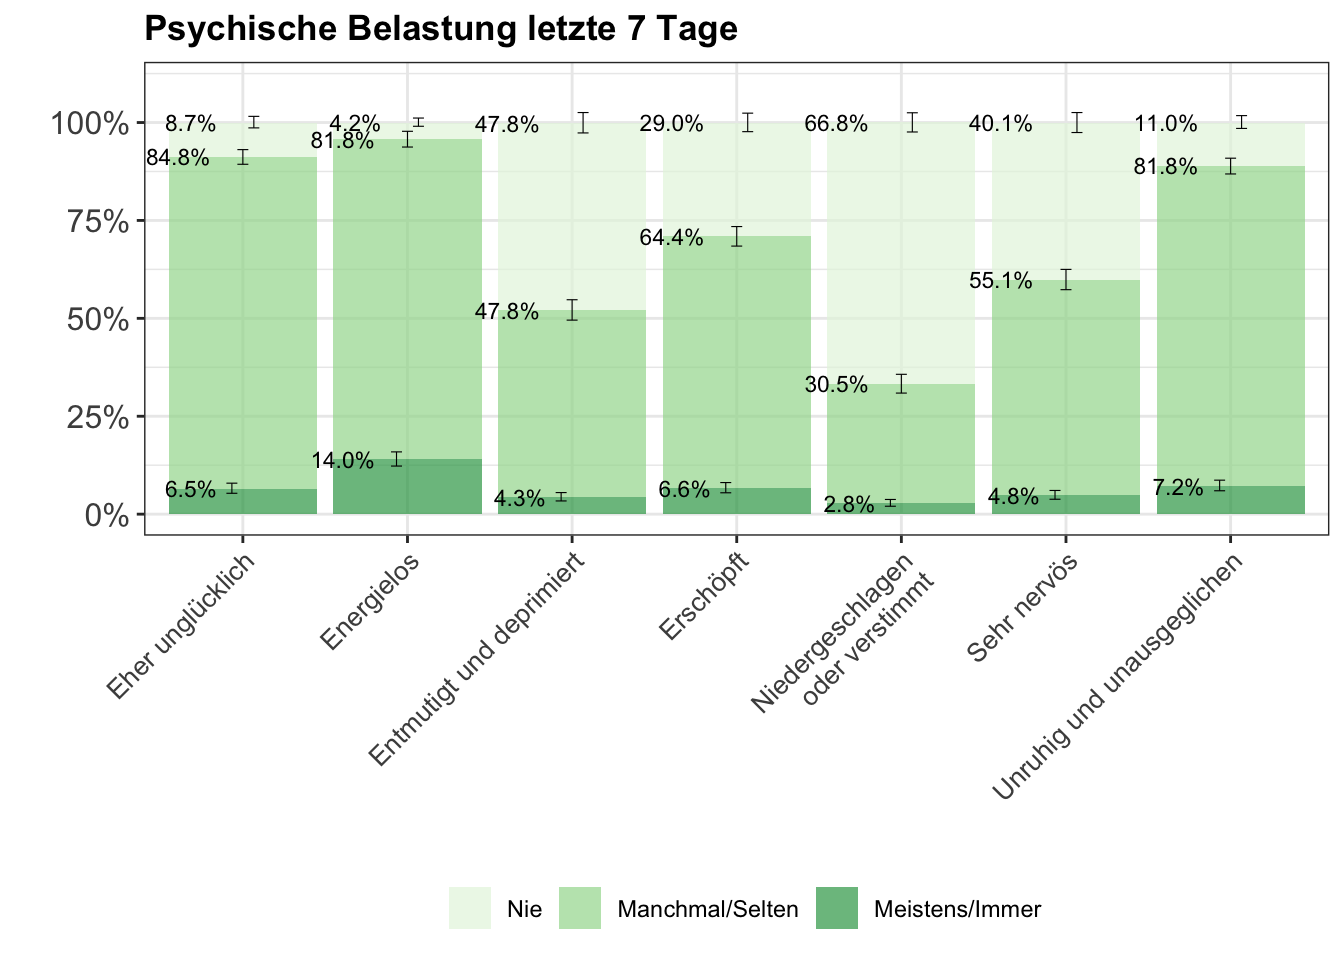
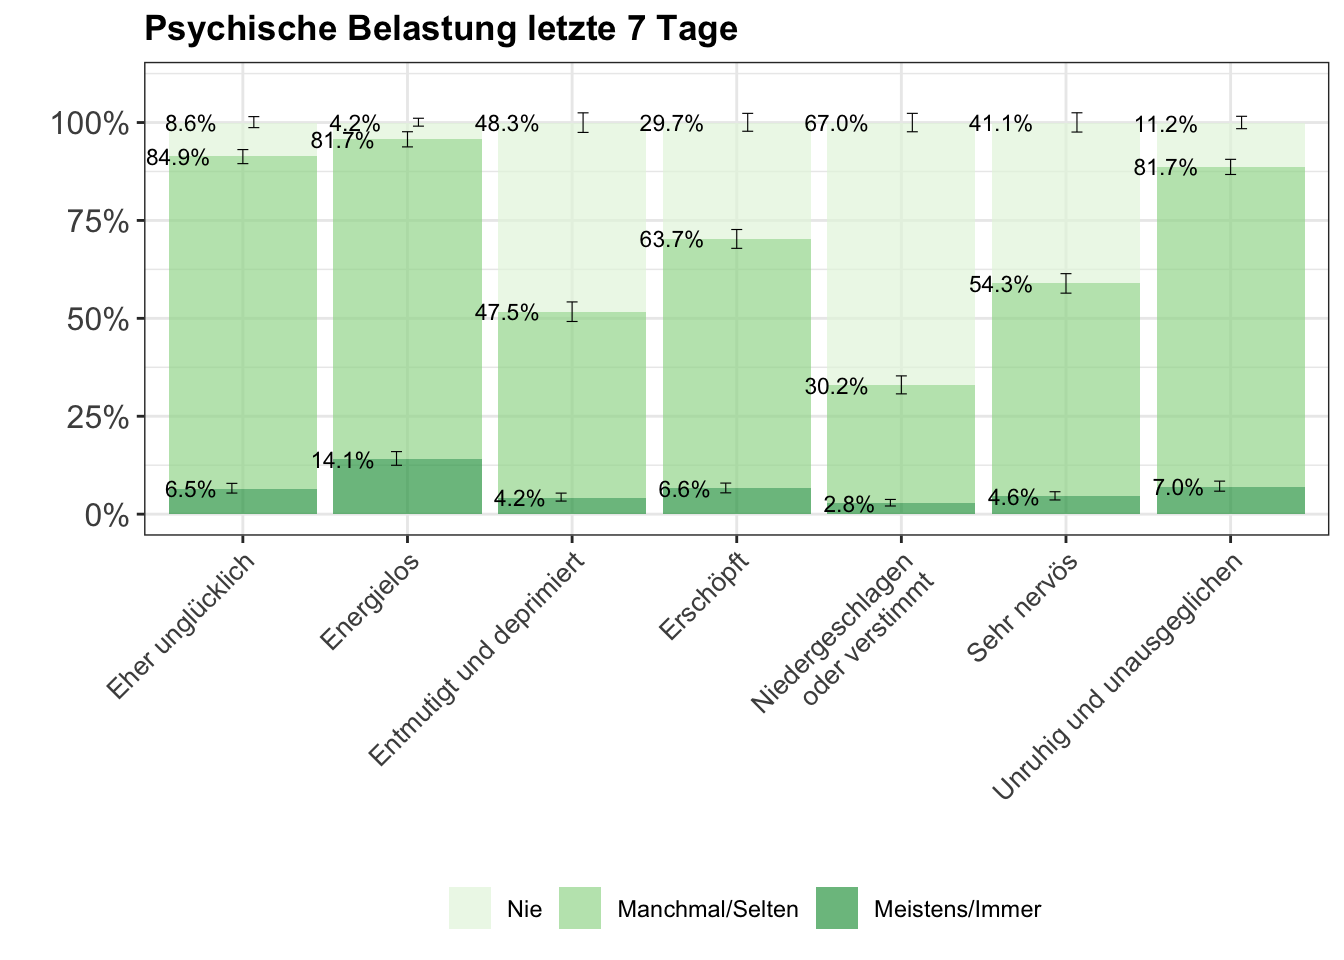
Report

diff --git a/public/post/wave2/index.html b/public/post/wave2/index.html
@@ -4,15 +4,15 @@
 	<meta charset="UTF-8">
 	<meta name="viewport" content="width=device-width, initial-scale=1">
 	<meta http-equiv="X-UA-Compatible" content="IE=edge">
-	<title>Zwischenresultate Umfragewelle 2 - COVID-19 Social Monitor</title>
+	<title>Resultate Umfragewelle 2 - COVID-19 Social Monitor</title>
 	<script>(function(d,e){d[e]=d[e].replace("no-js","js");})(document.documentElement,"className");</script>
 	<meta name="description" content="">
-	<meta property="og:title" content="Zwischenresultate Umfragewelle 2" />
-<meta property="og:description" content="Zwischenresultate der zweiten Welle mit Erhebungszeitraum 06. April 2020 bis 14. April 2020" />
+	<meta property="og:title" content="Resultate Umfragewelle 2" />
+<meta property="og:description" content="Resultate der zweiten Welle mit Erhebungszeitraum 06. April 2020 bis 14. April 2020" />
 <meta property="og:type" content="article" />
 <meta property="og:url" content="/post/wave2/" />
-<meta property="article:published_time" content="2020-04-11T00:00:00+00:00" />
-<meta property="article:modified_time" content="2020-04-11T00:00:00+00:00" />
+<meta property="article:published_time" content="2020-04-13T00:00:00+00:00" />
+<meta property="article:modified_time" content="2020-04-13T00:00:00+00:00" />
 
 	
 	<link rel="dns-prefetch" href="//fonts.googleapis.com">
@@ -57,17 +57,17 @@
 <main class="main" role="main">
 	<article class="post">
 		<header class="post__header">
-			<h1 class="post__title">Zwischenresultate Umfragewelle 2</h1>
+			<h1 class="post__title">Resultate Umfragewelle 2</h1>
 			<div class="post__meta meta">
 <div class="meta__item-datetime meta__item">
-	<svg class="meta__icon icon icon-time" width="16" height="14" viewBox="0 0 30 28"><path d="M15 0C7 0 1 6 1 14s6 14 14 14 14-6 14-14S23 0 15 0zm0 25C9 25 4 20 4 14S9 3 15 3s11 5 11 11-5 11-11 11zm1-18h-2v8.4l6.8 4.4L22 18l-6-3.8V7z"/></svg><time class="meta__text" datetime="2020-04-11T00:00:00Z">April 11, 2020</time></div></div>
+	<svg class="meta__icon icon icon-time" width="16" height="14" viewBox="0 0 30 28"><path d="M15 0C7 0 1 6 1 14s6 14 14 14 14-6 14-14S23 0 15 0zm0 25C9 25 4 20 4 14S9 3 15 3s11 5 11 11-5 11-11 11zm1-18h-2v8.4l6.8 4.4L22 18l-6-3.8V7z"/></svg><time class="meta__text" datetime="2020-04-13T00:00:00Z">April 13, 2020</time></div></div>
 		</header><div class="content post__content clearfix">
 			
 
 
 <div id="umfragepopulation" class="section level1">
 <h1>Umfragepopulation</h1>
-<p>Die zweite Umfragewelle startete am 06. April 2020. Per 12.04.2020 wurden Antworten von 1416 Personen ausgewertet, welche in der ersten Umfragewelle (N=2024) teilgenommen haben (Rücklaufquote 70%). Insgesamt gaben 688 (48.6%) Frauen* und 728 (51.4%) Männer* eine Antwort. Das durchschnittliche Alter der Personen welche an der Umfragewelle teilgenommen haben beträgt 46 Jahre (Jüngste Person: 18 Jahre, Älteste Person 79 Jahre). Davon waren 212 (15%) Personen älter als 65 Jahre. 95 (6.7%) der befragten Personen hatten einen obligatorischen Schulabschluss, 671 (47.4%) einen Sekundarstufeabschluss und 644 (45.5%) einen Abschluss auf Tertiärstufe (6 [0.4%) Personen machten keine Angabe zur Ausbildung]. Es wurden 881 (62.2%) Personen in der Deutschschweiz, 317 (22.4%) in der Romandie (frankophone Schweiz) und 218 (15.4%) in der italienisch-sprechenden Region der Schweiz befragt.</p>
+<p>Die zweite Umfragewelle startete am 06. April 2020. Per 14.04.2020 wurden Antworten von 1536 Personen ausgewertet, welche in der ersten Umfragewelle (N=2024) teilgenommen haben (Rücklaufquote 75.9%). Insgesamt gaben 738 (48%) Frauen* und 798 (52%) Männer* eine Antwort. Das durchschnittliche Alter der Personen welche an der Umfragewelle teilgenommen haben beträgt 46 Jahre (Jüngste Person: 18 Jahre, Älteste Person 79 Jahre). Davon waren 237 (15.4%) Personen älter als 65 Jahre. 103 (6.7%) der befragten Personen hatten einen obligatorischen Schulabschluss, 735 (47.9%) einen Sekundarstufeabschluss und 692 (45.1%) einen Abschluss auf Tertiärstufe (6 [0.4%) Personen machten keine Angabe zur Ausbildung]. Es wurden 990 (64.5%) Personen in der Deutschschweiz, 323 (21%) in der Romandie (frankophone Schweiz) und 223 (14.5%) in der italienisch-sprechenden Region der Schweiz befragt.</p>
 <p> </p>
 </div>
 <div id="allgemeine-gesundheit-und-wohlbefinden" class="section level1">
@@ -153,7 +153,7 @@
 	<h4 class="widget__title">Recent Posts</h4>
 	<div class="widget__content">
 		<ul class="widget__list">
-			<li class="widget__item"><a class="widget__link" href="/post/wave2/">Zwischenresultate Umfragewelle 2</a></li>
+			<li class="widget__item"><a class="widget__link" href="/post/wave2/">Resultate Umfragewelle 2</a></li>
 			<li class="widget__item"><a class="widget__link" href="/post/wave1/">Resultate Umfragewelle 1</a></li>
 			<li class="widget__item"><a class="widget__link" href="/post/start-umfragewelle-2/">Start Umfragewelle 2</a></li>
 			<li class="widget__item"><a class="widget__link" href="/post/start-erste-umfragewelle/">Start erste Umfragewelle</a></li>

diff --git a/content/post/2020-04-11-welle-2.html b/content/post/2020-04-11-welle-2.html
@@ -1,20 +1,20 @@
 ---
 title: Zwischenresultate Umfragewelle 2
 author: André Moser
-date: '2020-04-11'
+date: '2020-04-14'
 slug: wave2
 categories: []
 tags: []
 description: ''
 thumbnail: ''
-summary: "Zwischenresultate der zweiten Welle mit Erhebungszeitraum 06. April 2020 bis 14. April 2020"
+summary: "Resultate der zweiten Welle mit Erhebungszeitraum 06. April 2020 bis 14. April 2020"
 ---
 
 
 
 <div id="umfragepopulation" class="section level1">
 <h1>Umfragepopulation</h1>
-<p>Die zweite Umfragewelle startete am 06. April 2020. Per 12.04.2020 wurden Antworten von 1416 Personen ausgewertet, welche in der ersten Umfragewelle (N=2024) teilgenommen haben (Rücklaufquote 70%). Insgesamt gaben 688 (48.6%) Frauen* und 728 (51.4%) Männer* eine Antwort. Das durchschnittliche Alter der Personen welche an der Umfragewelle teilgenommen haben beträgt 46 Jahre (Jüngste Person: 18 Jahre, Älteste Person 79 Jahre). Davon waren 212 (15%) Personen älter als 65 Jahre. 95 (6.7%) der befragten Personen hatten einen obligatorischen Schulabschluss, 671 (47.4%) einen Sekundarstufeabschluss und 644 (45.5%) einen Abschluss auf Tertiärstufe (6 [0.4%) Personen machten keine Angabe zur Ausbildung]. Es wurden 881 (62.2%) Personen in der Deutschschweiz, 317 (22.4%) in der Romandie (frankophone Schweiz) und 218 (15.4%) in der italienisch-sprechenden Region der Schweiz befragt.</p>
+<p>Die zweite Umfragewelle startete am 06. April 2020. Per 14.04.2020 wurden Antworten von 1536 Personen ausgewertet, welche in der ersten Umfragewelle (N=2024) teilgenommen haben (Rücklaufquote 75.9%). Insgesamt gaben 738 (48%) Frauen* und 798 (52%) Männer* eine Antwort. Das durchschnittliche Alter der Personen welche an der Umfragewelle teilgenommen haben beträgt 46 Jahre (Jüngste Person: 18 Jahre, Älteste Person 79 Jahre). Davon waren 237 (15.4%) Personen älter als 65 Jahre. 103 (6.7%) der befragten Personen hatten einen obligatorischen Schulabschluss, 735 (47.9%) einen Sekundarstufeabschluss und 692 (45.1%) einen Abschluss auf Tertiärstufe (6 [0.4%) Personen machten keine Angabe zur Ausbildung]. Es wurden 990 (64.5%) Personen in der Deutschschweiz, 323 (21%) in der Romandie (frankophone Schweiz) und 223 (14.5%) in der italienisch-sprechenden Region der Schweiz befragt.</p>
 <p> </p>
 </div>
 <div id="allgemeine-gesundheit-und-wohlbefinden" class="section level1">

diff --git a/public/post/index.html b/public/post/index.html
@@ -11,7 +11,7 @@
 <meta property="og:description" content="" />
 <meta property="og:type" content="website" />
 <meta property="og:url" content="/post/" />
-<meta property="og:updated_time" content="2020-04-11T00:00:00+00:00" />
+<meta property="og:updated_time" content="2020-04-13T00:00:00+00:00" />
 
 	
 	<link rel="dns-prefetch" href="//fonts.googleapis.com">
@@ -61,15 +61,15 @@
 	<header class="list__header">
 		<h3 class="list__title post__title ">
 			<a href="/post/wave2/" rel="bookmark">
-			Zwischenresultate Umfragewelle 2
+			Resultate Umfragewelle 2
 			</a>
 		</h3>
 		<div class="list__meta meta">
 <div class="meta__item-datetime meta__item">
-	<svg class="meta__icon icon icon-time" width="16" height="14" viewBox="0 0 30 28"><path d="M15 0C7 0 1 6 1 14s6 14 14 14 14-6 14-14S23 0 15 0zm0 25C9 25 4 20 4 14S9 3 15 3s11 5 11 11-5 11-11 11zm1-18h-2v8.4l6.8 4.4L22 18l-6-3.8V7z"/></svg><time class="meta__text" datetime="2020-04-11T00:00:00Z">April 11, 2020</time></div></div>
+	<svg class="meta__icon icon icon-time" width="16" height="14" viewBox="0 0 30 28"><path d="M15 0C7 0 1 6 1 14s6 14 14 14 14-6 14-14S23 0 15 0zm0 25C9 25 4 20 4 14S9 3 15 3s11 5 11 11-5 11-11 11zm1-18h-2v8.4l6.8 4.4L22 18l-6-3.8V7z"/></svg><time class="meta__text" datetime="2020-04-13T00:00:00Z">April 13, 2020</time></div></div>
 	</header>
 	<div class="content list__excerpt post__content clearfix">
-		Zwischenresultate der zweiten Welle mit Erhebungszeitraum 06. April 2020 bis 14. April 2020
+		Resultate der zweiten Welle mit Erhebungszeitraum 06. April 2020 bis 14. April 2020
 	</div>
 </article><article class="list__item post">
 	<header class="list__header">
@@ -124,7 +124,7 @@
 	<h4 class="widget__title">Recent Posts</h4>
 	<div class="widget__content">
 		<ul class="widget__list">
-			<li class="widget__item"><a class="widget__link" href="/post/wave2/">Zwischenresultate Umfragewelle 2</a></li>
+			<li class="widget__item"><a class="widget__link" href="/post/wave2/">Resultate Umfragewelle 2</a></li>
 			<li class="widget__item"><a class="widget__link" href="/post/wave1/">Resultate Umfragewelle 1</a></li>
 			<li class="widget__item"><a class="widget__link" href="/post/start-umfragewelle-2/">Start Umfragewelle 2</a></li>
 			<li class="widget__item"><a class="widget__link" href="/post/start-erste-umfragewelle/">Start erste Umfragewelle</a></li>

diff --git a/public/index.html b/public/index.html
@@ -60,15 +60,15 @@
 	<header class="list__header">
 		<h3 class="list__title post__title ">
 			<a href="/post/wave2/" rel="bookmark">
-			Zwischenresultate Umfragewelle 2
+			Resultate Umfragewelle 2
 			</a>
 		</h3>
 		<div class="list__meta meta">
 <div class="meta__item-datetime meta__item">
-	<svg class="meta__icon icon icon-time" width="16" height="14" viewBox="0 0 30 28"><path d="M15 0C7 0 1 6 1 14s6 14 14 14 14-6 14-14S23 0 15 0zm0 25C9 25 4 20 4 14S9 3 15 3s11 5 11 11-5 11-11 11zm1-18h-2v8.4l6.8 4.4L22 18l-6-3.8V7z"/></svg><time class="meta__text" datetime="2020-04-11T00:00:00Z">April 11, 2020</time></div></div>
+	<svg class="meta__icon icon icon-time" width="16" height="14" viewBox="0 0 30 28"><path d="M15 0C7 0 1 6 1 14s6 14 14 14 14-6 14-14S23 0 15 0zm0 25C9 25 4 20 4 14S9 3 15 3s11 5 11 11-5 11-11 11zm1-18h-2v8.4l6.8 4.4L22 18l-6-3.8V7z"/></svg><time class="meta__text" datetime="2020-04-13T00:00:00Z">April 13, 2020</time></div></div>
 	</header>
 	<div class="content list__excerpt post__content clearfix">
-		Zwischenresultate der zweiten Welle mit Erhebungszeitraum 06. April 2020 bis 14. April 2020
+		Resultate der zweiten Welle mit Erhebungszeitraum 06. April 2020 bis 14. April 2020
 	</div>
 </article><article class="list__item post">
 	<header class="list__header">
@@ -122,7 +122,7 @@
 	<h4 class="widget__title">Recent Posts</h4>
 	<div class="widget__content">
 		<ul class="widget__list">
-			<li class="widget__item"><a class="widget__link" href="/post/wave2/">Zwischenresultate Umfragewelle 2</a></li>
+			<li class="widget__item"><a class="widget__link" href="/post/wave2/">Resultate Umfragewelle 2</a></li>
 			<li class="widget__item"><a class="widget__link" href="/post/wave1/">Resultate Umfragewelle 1</a></li>
 			<li class="widget__item"><a class="widget__link" href="/post/start-umfragewelle-2/">Start Umfragewelle 2</a></li>
 			<li class="widget__item"><a class="widget__link" href="/post/start-erste-umfragewelle/">Start erste Umfragewelle</a></li>

diff --git a/public/post/wave1/index.html b/public/post/wave1/index.html
@@ -140,7 +140,7 @@
 	<div class="post-nav__item post-nav__item--next">
 		<a class="post-nav__link" href="/post/wave2/" rel="next">
 			<span class="post-nav__caption">Next&thinsp;»</span>
-			<p class="post-nav__post-title">Zwischenresultate Umfragewelle 2</p>
+			<p class="post-nav__post-title">Resultate Umfragewelle 2</p>
 		</a>
 	</div>
 </nav>
@@ -152,7 +152,7 @@
 	<h4 class="widget__title">Recent Posts</h4>
 	<div class="widget__content">
 		<ul class="widget__list">
-			<li class="widget__item"><a class="widget__link" href="/post/wave2/">Zwischenresultate Umfragewelle 2</a></li>
+			<li class="widget__item"><a class="widget__link" href="/post/wave2/">Resultate Umfragewelle 2</a></li>
 			<li class="widget__item"><a class="widget__link" href="/post/wave1/">Resultate Umfragewelle 1</a></li>
 			<li class="widget__item"><a class="widget__link" href="/post/start-umfragewelle-2/">Start Umfragewelle 2</a></li>
 			<li class="widget__item"><a class="widget__link" href="/post/start-erste-umfragewelle/">Start erste Umfragewelle</a></li>

diff --git a/public/404.html b/public/404.html
@@ -67,7 +67,7 @@
 	<h4 class="widget__title">Recent Posts</h4>
 	<div class="widget__content">
 		<ul class="widget__list">
-			<li class="widget__item"><a class="widget__link" href="/post/wave2/">Zwischenresultate Umfragewelle 2</a></li>
+			<li class="widget__item"><a class="widget__link" href="/post/wave2/">Resultate Umfragewelle 2</a></li>
 			<li class="widget__item"><a class="widget__link" href="/post/wave1/">Resultate Umfragewelle 1</a></li>
 			<li class="widget__item"><a class="widget__link" href="/post/start-umfragewelle-2/">Start Umfragewelle 2</a></li>
 			<li class="widget__item"><a class="widget__link" href="/post/start-erste-umfragewelle/">Start erste Umfragewelle</a></li>

diff --git a/public/categories/index.html b/public/categories/index.html
@@ -68,7 +68,7 @@
 	<h4 class="widget__title">Recent Posts</h4>
 	<div class="widget__content">
 		<ul class="widget__list">
-			<li class="widget__item"><a class="widget__link" href="/post/wave2/">Zwischenresultate Umfragewelle 2</a></li>
+			<li class="widget__item"><a class="widget__link" href="/post/wave2/">Resultate Umfragewelle 2</a></li>
 			<li class="widget__item"><a class="widget__link" href="/post/wave1/">Resultate Umfragewelle 1</a></li>
 			<li class="widget__item"><a class="widget__link" href="/post/start-umfragewelle-2/">Start Umfragewelle 2</a></li>
 			<li class="widget__item"><a class="widget__link" href="/post/start-erste-umfragewelle/">Start erste Umfragewelle</a></li>

diff --git a/public/post/start-erste-umfragewelle/index.html b/public/post/start-erste-umfragewelle/index.html
@@ -85,7 +85,7 @@
 	<h4 class="widget__title">Recent Posts</h4>
 	<div class="widget__content">
 		<ul class="widget__list">
-			<li class="widget__item"><a class="widget__link" href="/post/wave2/">Zwischenresultate Umfragewelle 2</a></li>
+			<li class="widget__item"><a class="widget__link" href="/post/wave2/">Resultate Umfragewelle 2</a></li>
 			<li class="widget__item"><a class="widget__link" href="/post/wave1/">Resultate Umfragewelle 1</a></li>
 			<li class="widget__item"><a class="widget__link" href="/post/start-umfragewelle-2/">Start Umfragewelle 2</a></li>
 			<li class="widget__item"><a class="widget__link" href="/post/start-erste-umfragewelle/">Start erste Umfragewelle</a></li>

diff --git a/public/post/start-umfragewelle-2/index.html b/public/post/start-umfragewelle-2/index.html
@@ -91,7 +91,7 @@
 	<h4 class="widget__title">Recent Posts</h4>
 	<div class="widget__content">
 		<ul class="widget__list">
-			<li class="widget__item"><a class="widget__link" href="/post/wave2/">Zwischenresultate Umfragewelle 2</a></li>
+			<li class="widget__item"><a class="widget__link" href="/post/wave2/">Resultate Umfragewelle 2</a></li>
 			<li class="widget__item"><a class="widget__link" href="/post/wave1/">Resultate Umfragewelle 1</a></li>
 			<li class="widget__item"><a class="widget__link" href="/post/start-umfragewelle-2/">Start Umfragewelle 2</a></li>
 			<li class="widget__item"><a class="widget__link" href="/post/start-erste-umfragewelle/">Start erste Umfragewelle</a></li>

diff --git a/public/tags/index.html b/public/tags/index.html
@@ -68,7 +68,7 @@
 	<h4 class="widget__title">Recent Posts</h4>
 	<div class="widget__content">
 		<ul class="widget__list">
-			<li class="widget__item"><a class="widget__link" href="/post/wave2/">Zwischenresultate Umfragewelle 2</a></li>
+			<li class="widget__item"><a class="widget__link" href="/post/wave2/">Resultate Umfragewelle 2</a></li>
 			<li class="widget__item"><a class="widget__link" href="/post/wave1/">Resultate Umfragewelle 1</a></li>
 			<li class="widget__item"><a class="widget__link" href="/post/start-umfragewelle-2/">Start Umfragewelle 2</a></li>
 			<li class="widget__item"><a class="widget__link" href="/post/start-erste-umfragewelle/">Start erste Umfragewelle</a></li>
